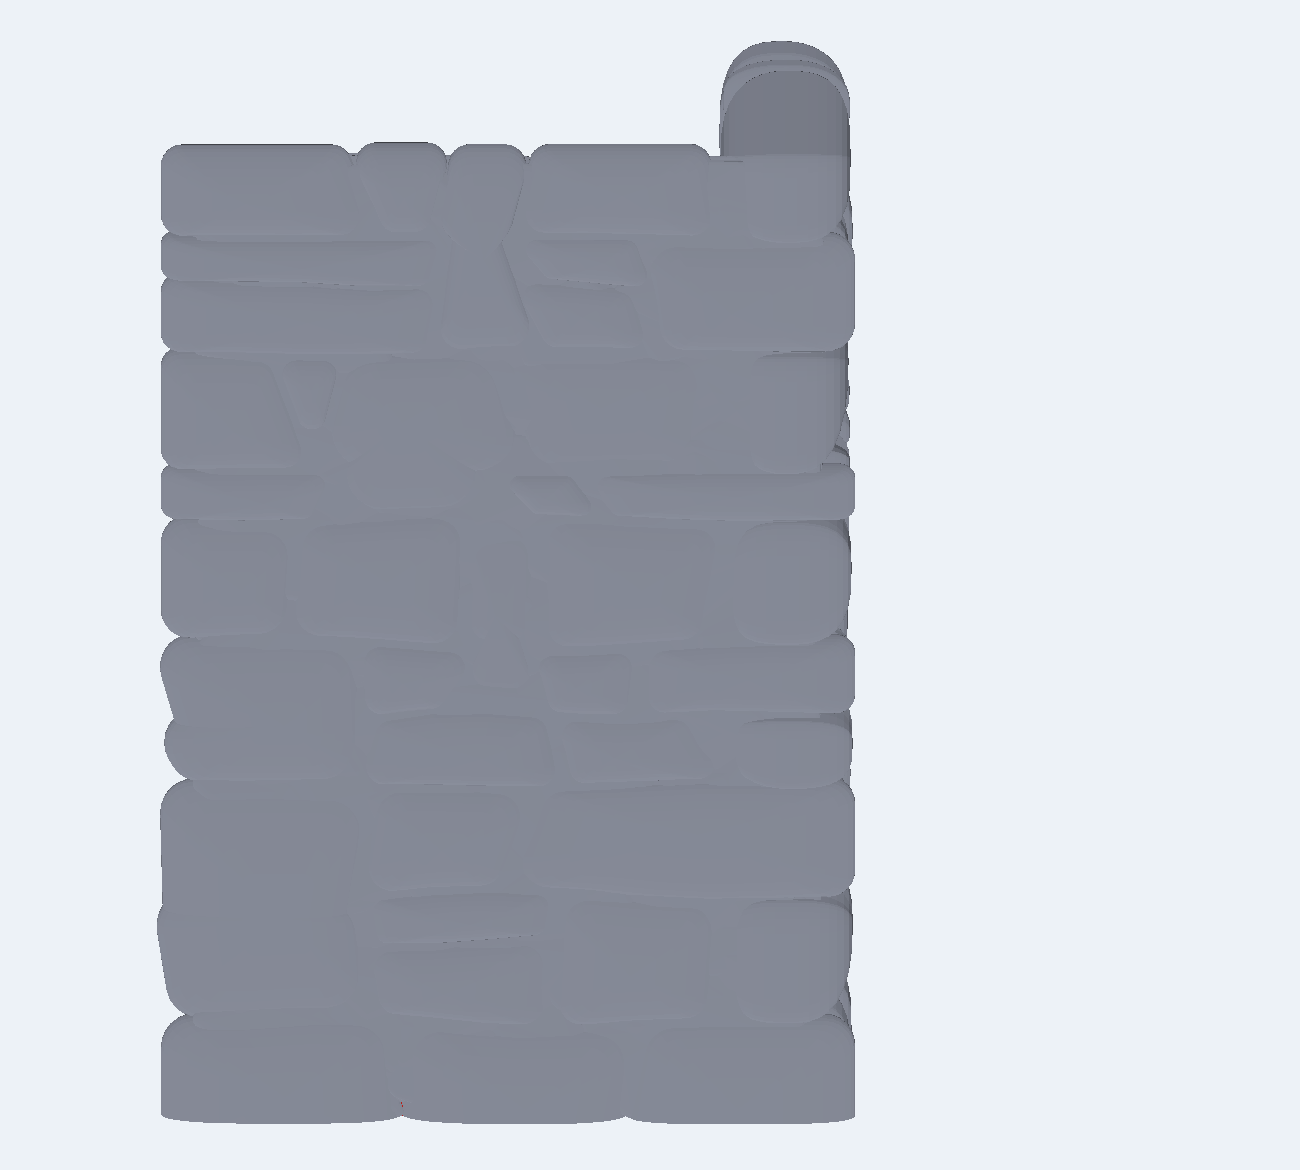
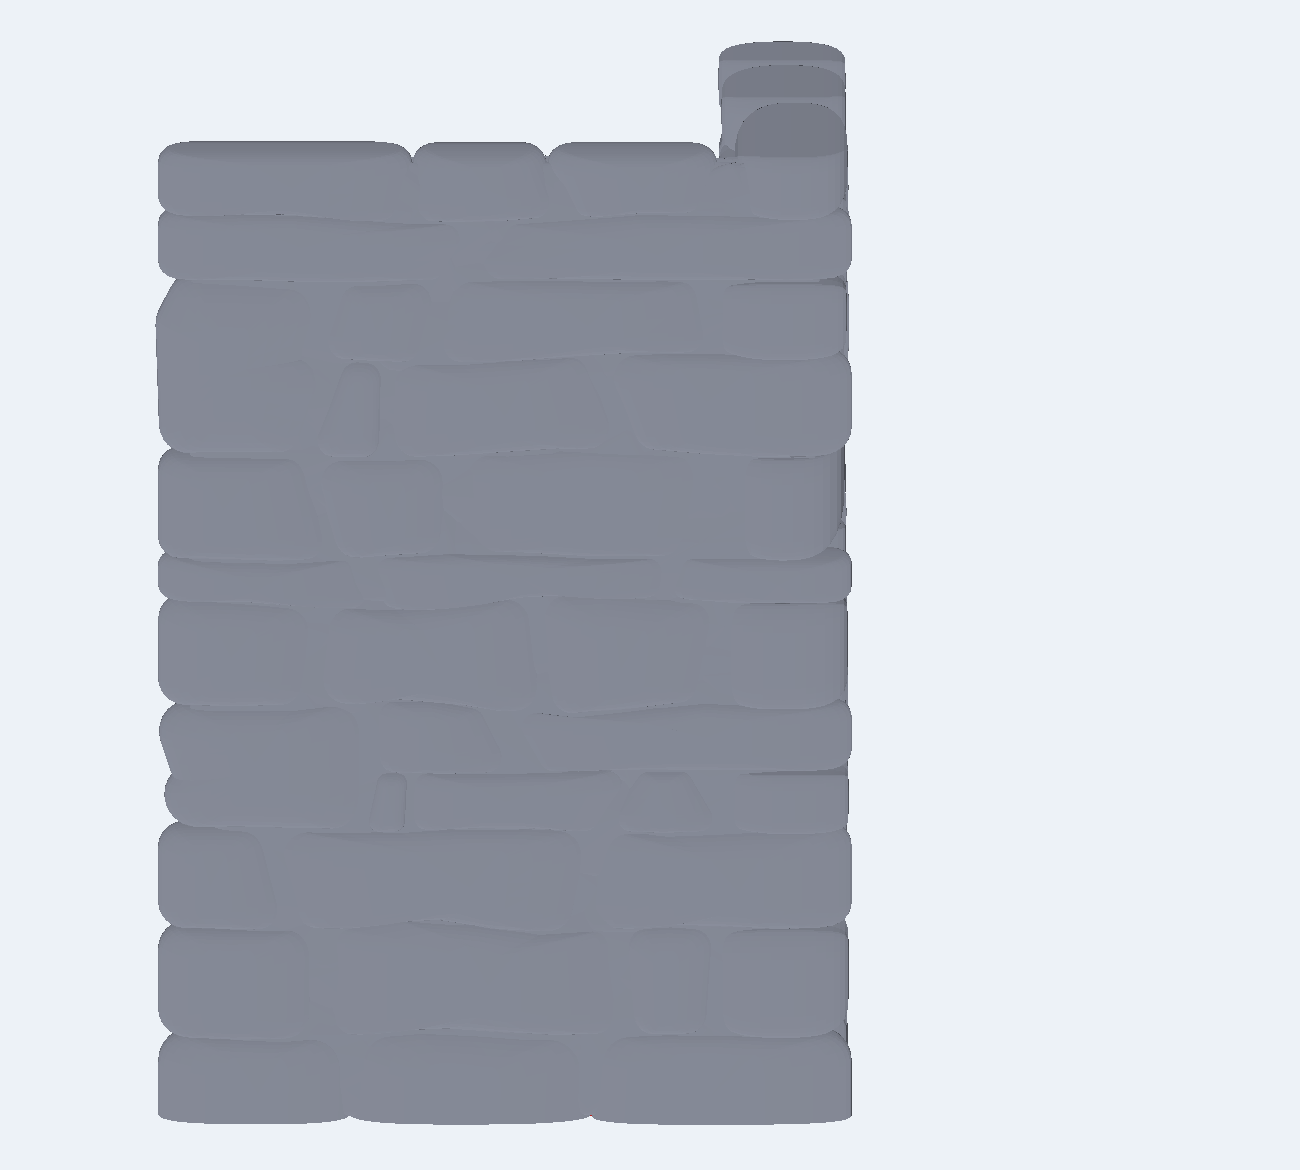
Walls: fieldstone E19 — flat beds, shorter courses, capped throughstones
Shawn: tops/bottoms flatter (piling flat stones, not curved), reduce
max height of cross-row stones, +20% horizontal cracks.

- anisotropic morph: z-scale = s^p, p in (0.22, 0.42) per stone — bed
  surfaces stay near-flat planes over most of the depth, turning down
  only at the face poles; t keeps the full superellipse
- courses 2.3-6.2mm (was 2.8-7.5): ~20% more bed lines
- throughstone merges capped at 9.5mm total height

Red-mortar diag 0.0000 on all five views.

diff --git a/src/dharmatiles/walls/fieldstone.py b/src/dharmatiles/walls/fieldstone.py
@@ -84,6 +84,12 @@ _POLE_DRIFT_FRAC  = 0.12          # each pole wanders up to this × the
                                   # outline size from the centroid: the
                                   # summit of the dome is off-centre,
                                   # like a real cobble
+_BED_FLAT_EXP     = (0.22, 0.42)  # z-scale = s^p (E19): the bed
+                                  # surfaces stay near-FLAT over most of
+                                  # the depth and only turn down close
+                                  # to the face poles — we're piling
+                                  # flat stones, not spheres.  Smaller
+                                  # exponent = flatter beds
 _PROUD_MM         = (0.10, 0.50)  # per-stone face recession (both faces)
 _PROUD_DEEP_PROB  = 0.12          # a rare stone sits notably deeper —
 _PROUD_DEEP_MM    = (0.70, 1.10)  # the odd deep stone the references show
@@ -92,6 +98,10 @@ _N_LAT            = 17            # latitude rings (poles excluded)
 # Cell topology
 _THROUGH_FRAC     = 0.20          # fraction of eligible cells merged with
                                   # the cell above into a throughstone
+_THROUGH_MAX_MM   = 9.5           # merged throughstone height cap (E19:
+                                  # cross-row stones must not get too
+                                  # tall — two full courses could reach
+                                  # ~12–15 mm)
 _SPLIT_H_PROB     = 0.28          # tall cell → two stacked thinner stones
 _SPLIT_H_MIN_MM   = 5.5           # eligible cell height for an h-split
 # Rubble hearting (E10 guarantee, unchanged)
@@ -144,7 +154,7 @@ class FieldstoneWall(CutStoneWall):
     """
 
     def __init__(self, spine, *,
-                 course_mm: tuple[float, float] = (2.8, 7.5),
+                 course_mm: tuple[float, float] = (2.3, 6.2),
                  bay_mm:    tuple[float, float] = (5.0, 16.0),
                  joint_mm:  float = 0.0,   # physical crack gap (Shawn E18:
                                            # zero — stones TOUCH at their
@@ -229,7 +239,8 @@ class FieldstoneWall(CutStoneWall):
             above = by_course.get((c.key[0] + 1, c.seg), [])
             for a in above:
                 if (a.is_quoin or a.key in taken
-                        or min(c.t1, a.t1) - max(c.t0, a.t0) < 3.0):
+                        or min(c.t1, a.t1) - max(c.t0, a.t0) < 3.0
+                        or a.z1 - c.z0 > _THROUGH_MAX_MM):
                     continue
                 lo = max(c.t0, a.t0)
                 hi = min(c.t1, a.t1)
@@ -393,6 +404,7 @@ class FieldstoneWall(CutStoneWall):
         ctr = np.array([poly.centroid.x, poly.centroid.y])
         a_f, a_b = brng.uniform(*_MORPH_A, 2)
         b_f, b_b = brng.uniform(*_MORPH_B, 2)
+        pz = brng.uniform(*_BED_FLAT_EXP)
         pole_f = ctr + brng.uniform(-_POLE_DRIFT_FRAC,
                                     _POLE_DRIFT_FRAC, 2) * span
         pole_b = ctr + brng.uniform(-_POLE_DRIFT_FRAC,
@@ -406,8 +418,16 @@ class FieldstoneWall(CutStoneWall):
             ae, be, pole = ((a_f, b_f, pole_f) if lat < 0
                             else (a_b, b_b, pole_b))
             sk = (1.0 - u ** ae) ** be
-            c_j = ctr + (pole - ctr) * (1.0 - sk)
-            rk = c_j + (ring - ctr) * sk
+            # Anisotropic (E19): t follows the morph, z flattens as
+            # sk^pz — beds stay planes over most of the depth, closing
+            # to the pole point only right at the faces.
+            szk = sk ** pz
+            rk = np.column_stack([
+                ctr[0] + (pole[0] - ctr[0]) * (1.0 - sk)
+                + (ring[:, 0] - ctr[0]) * sk,
+                ctr[1] + (pole[1] - ctr[1]) * (1.0 - szk)
+                + (ring[:, 1] - ctr[1]) * szk,
+            ])
             y = ym + h * np.sin(lat)
             verts.append(np.column_stack([rk[:, 0],
                                           np.full(n, y), rk[:, 1]]))

diff --git a/docs/design/walls-coursed-masonry.md b/docs/design/walls-coursed-masonry.md
@@ -192,7 +192,8 @@ unioned surface — the DB set-13 signature).
 | E15 | **Just the cracks and the roundovers** (Shawn: drop the face pillowing): belly/apex-drift deleted; stones are straight extruded prisms; every edge rounded — outline corners by the 2D buffer, face↔side edges by a circular-arc inset over the first/last `roundover_mm` of depth (cosine-spaced arc stations); `relief_mm` default 0 (the plane-wave fan-streak artifact went with it); per-stone tone now carried by proudness alone.  Half the mesh (110 k faces per corner tile).  Red 0.0000 all five views | Shawn: ✓ + next tweak |
 | E16 | **Big random roundovers** (Shawn: way more, randomised): `roundover_mm` is now a per-stone RANGE, default 0.9–2.0 mm, applied to both the 2D outline corners and the face↔side arc; ring normals smoothed 2 passes (raw vertex-normal insets fold at concave drift jogs at these radii); cap-triangulation grid clearance follows the roundover.  Per-stone cap `_ROUND_SIZE_CAP` = 0.22 × the outline's smaller dimension — at 0.38 the roundover ate the faces of thin stones and they read as dark slots.  Red 0.0000 all five views | Shawn: "pretty good" + next step |
 | E17 | **Full pebble morph** (Shawn: "an isosphere morphed to fit the outline/depth of the cracked region … an irregular stone instead of a block with rounded corners").  Sphere topology per stone: longitude follows the crack-bounded outline (the EQUATOR ring is the outline at mid-depth — silhouette, cracks, and dimensions unchanged); latitude sweeps a superellipse meridian `s=(1−|sin lat|^a)^b` from face pole to face pole, exponents drawn per pole (asymmetric bulge), poles drifting off-centre.  A true ellipse meridian (first cut) read as MELTED dough — all curvature at the silhouette, equator-line contact, cracks became soft wide valleys; the fuller superellipse (a 2.0–3.2, b 0.30–0.45) keeps a gently domed face and drops fast near the silhouette so cracks stay narrow and dark.  Delaunay cap machinery deleted (sphere poles are small fans on curved domes — clean under smooth shading); cap stones no longer crown-flat (R6 relaxed for this family: rounded cobble tops).  Red 0.0000 all five views | Shawn: ✓ + next tweak |
-| E18 | **Zero gap** (Shawn: with the pebble morph the cracks are the curved edges themselves): `joint_mm` 0.1 → 0.0 — neighbouring stones TOUCH at their shared equator lines; the crack is a V-groove with no gap at its root, drawn entirely by the two pole-ward curvatures meeting.  Manifold union handles the line contacts cleanly (bed contacts micro-overlap from independent polyline sampling of the shared curve; head joints share exact segments); no watertightness warnings.  Red 0.0000 all five views | pending Shawn |
+| E18 | **Zero gap** (Shawn: with the pebble morph the cracks are the curved edges themselves): `joint_mm` 0.1 → 0.0 — neighbouring stones TOUCH at their shared equator lines; the crack is a V-groove with no gap at its root, drawn entirely by the two pole-ward curvatures meeting.  Manifold union handles the line contacts cleanly (bed contacts micro-overlap from independent polyline sampling of the shared curve; head joints share exact segments); no watertightness warnings.  Red 0.0000 all five views | Shawn: ✓ + next tweak |
+| E19 | **Flat beds, shorter courses** (Shawn: piling flat stones, not curved; fewer tall cross-row stones; +20 % horizontal cracks): the morph goes anisotropic — z-scale = s^p with p 0.22–0.42 per stone (`_BED_FLAT_EXP`), so bed surfaces stay near-flat planes over most of the depth and only turn down at the face poles; courses 2.3–6.2 (−20 %); throughstone merges capped at 9.5 mm total height (`_THROUGH_MAX_MM`).  Red 0.0000 all five views | pending Shawn |
 
 Implementation notes: cut-stone blocks finish through `_blur_remesh`
 (σ 0.7) — `subdivide_to_size` leaves T-junctions that break the
